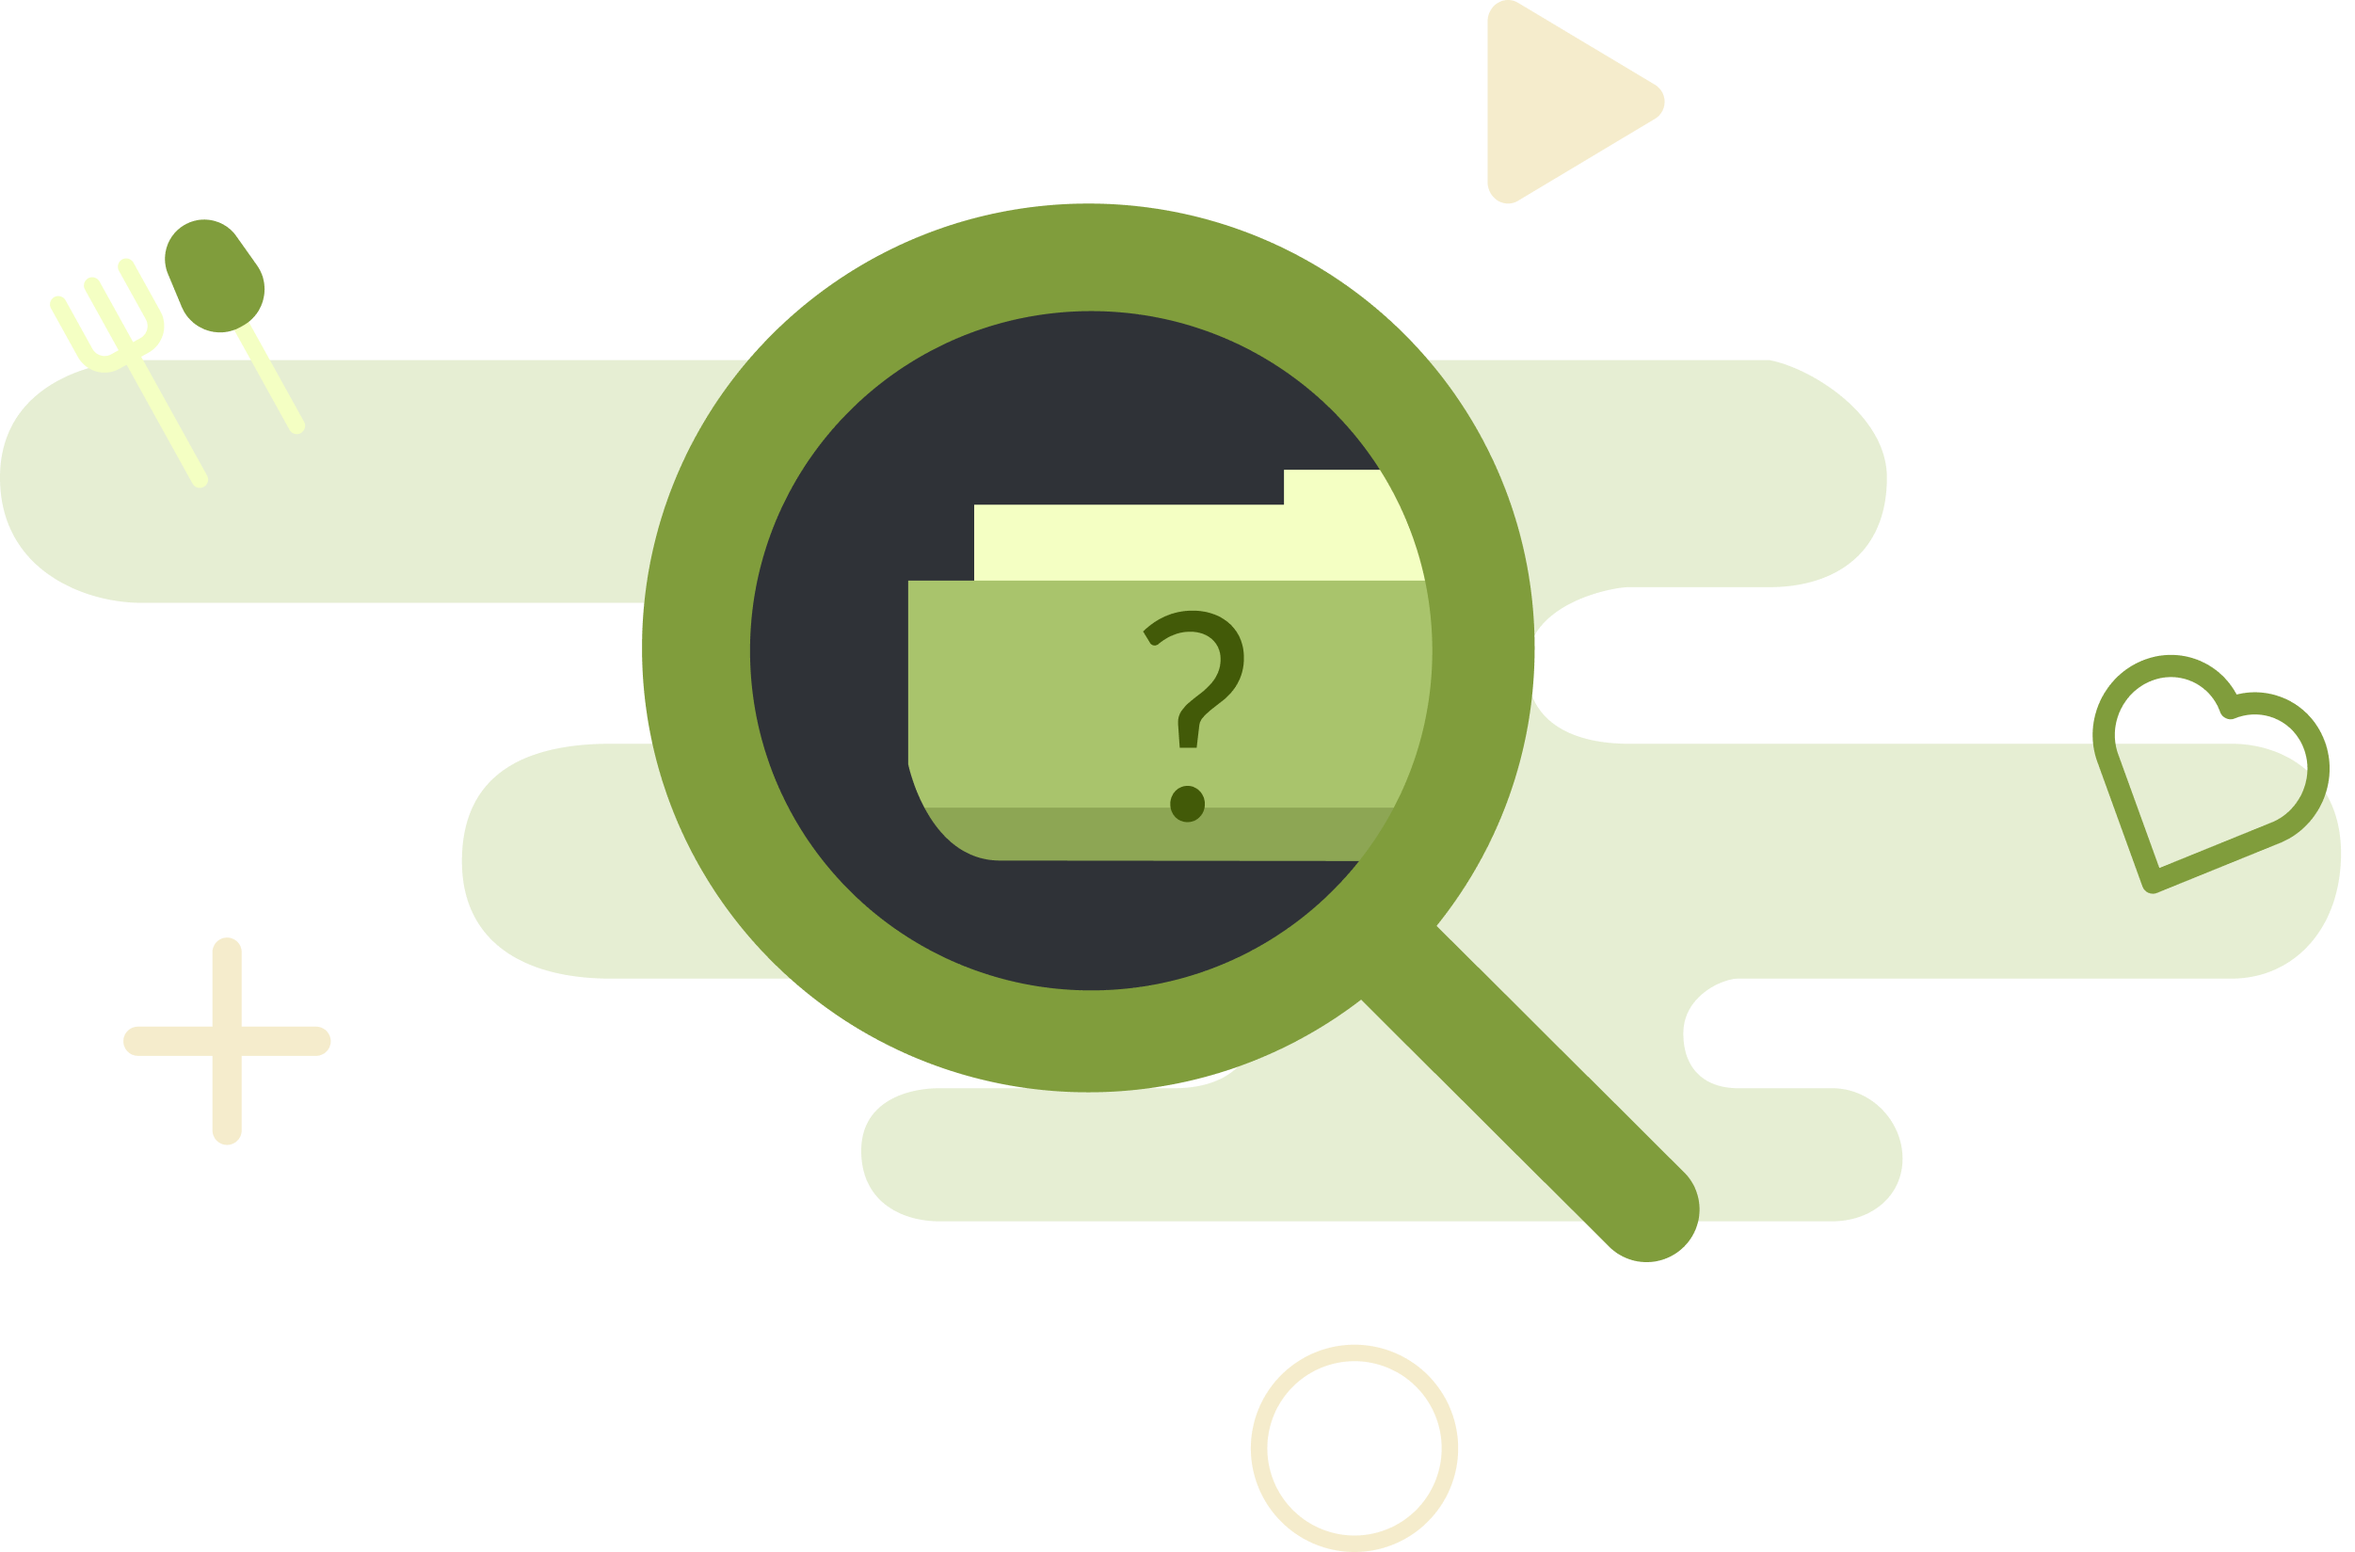
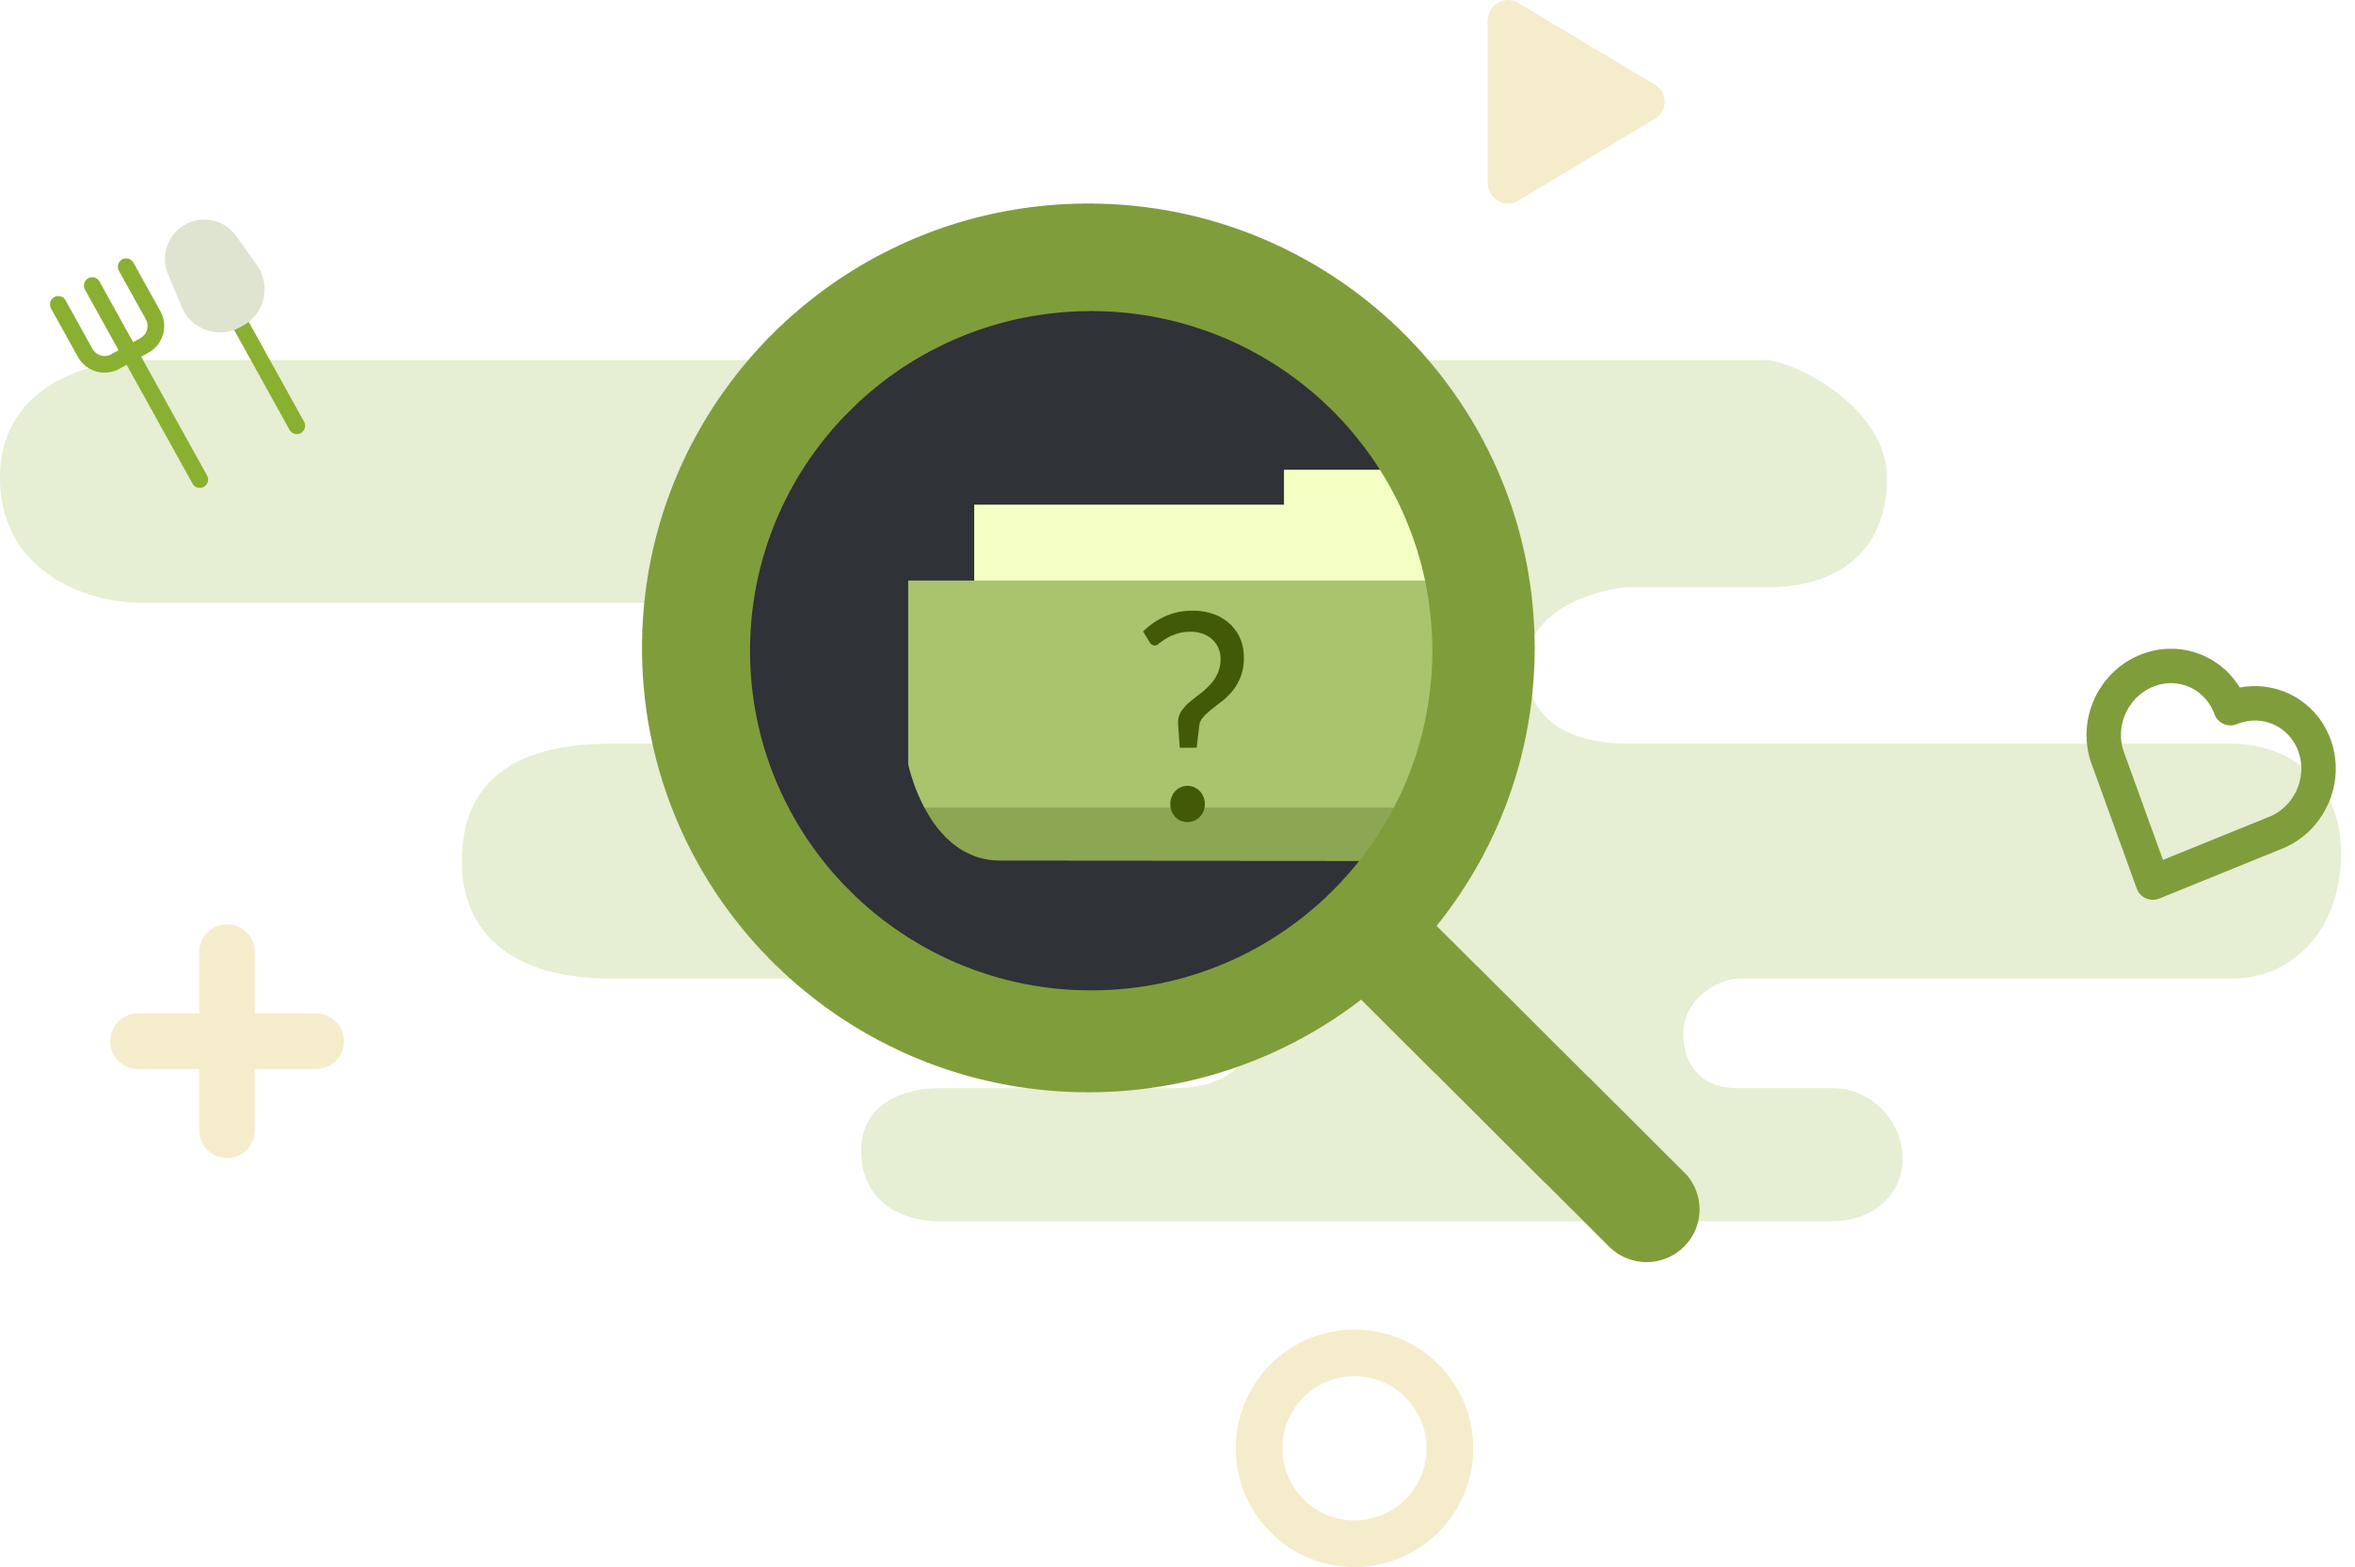
feat: update illustration

diff --git a/lib/feature/favorite/screen/favorite_screen.dart b/lib/feature/favorite/screen/favorite_screen.dart
@@ -66,7 +66,7 @@ class _FavoriteScreenState extends State<FavoriteScreen> {
                     mainAxisAlignment: MainAxisAlignment.center,
                     children: [
                       Image.asset(
-                        "images/not-found.png",
+                        "images/empty.png",
                         width: 200,
                       ),
                       const SizedBox(height: 8),
